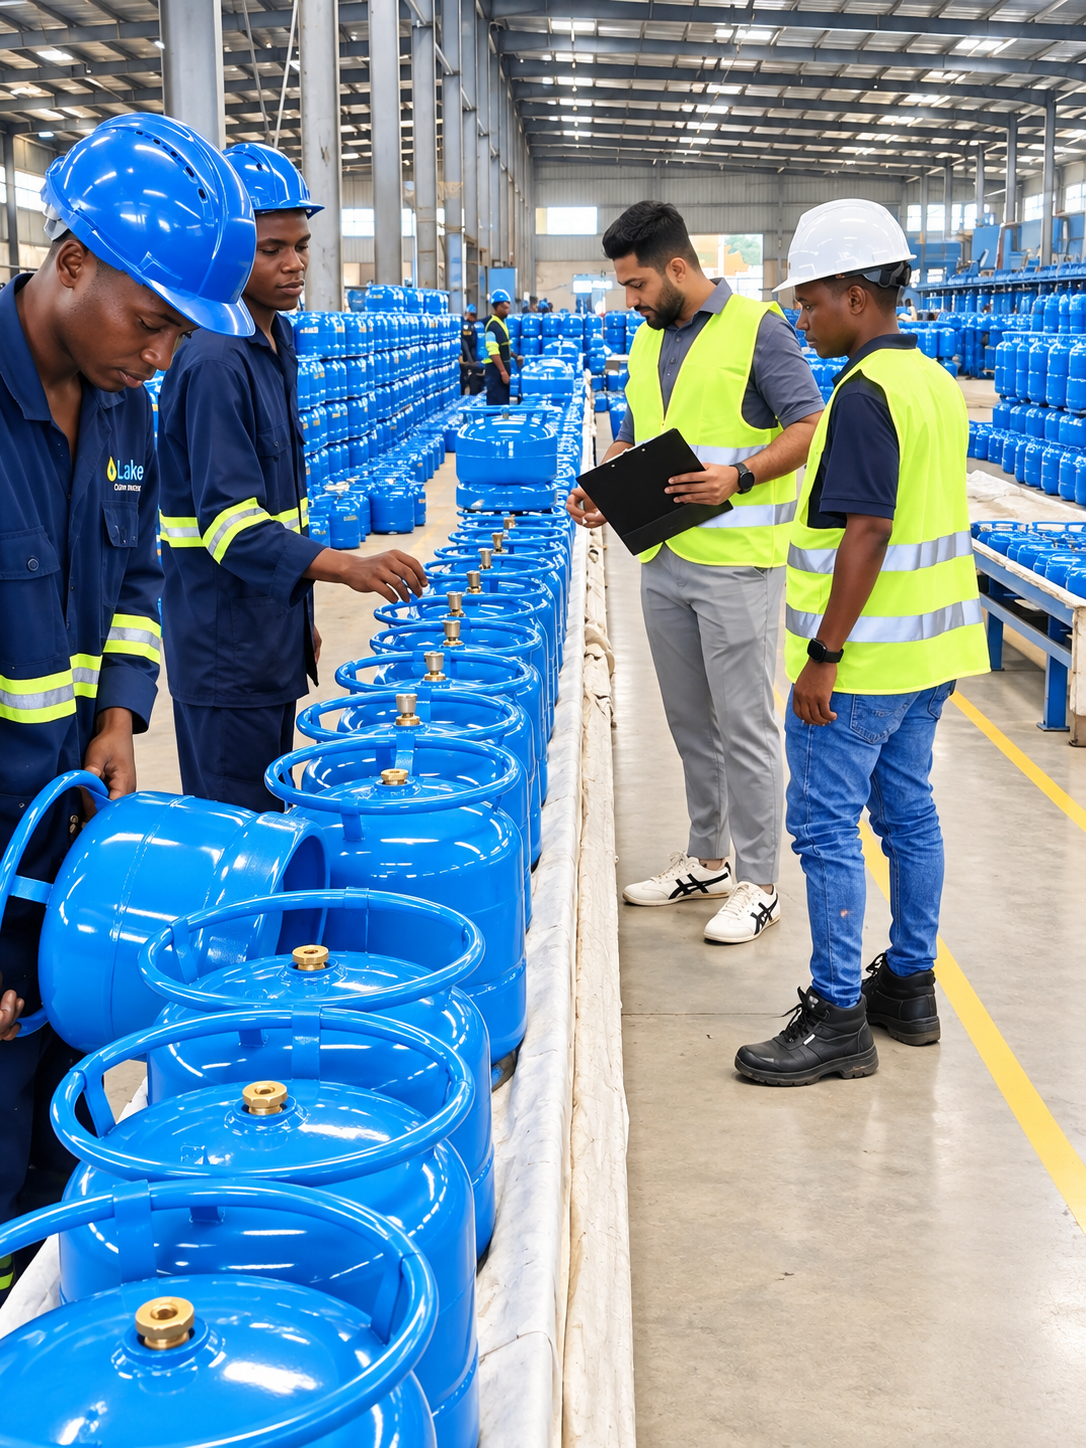
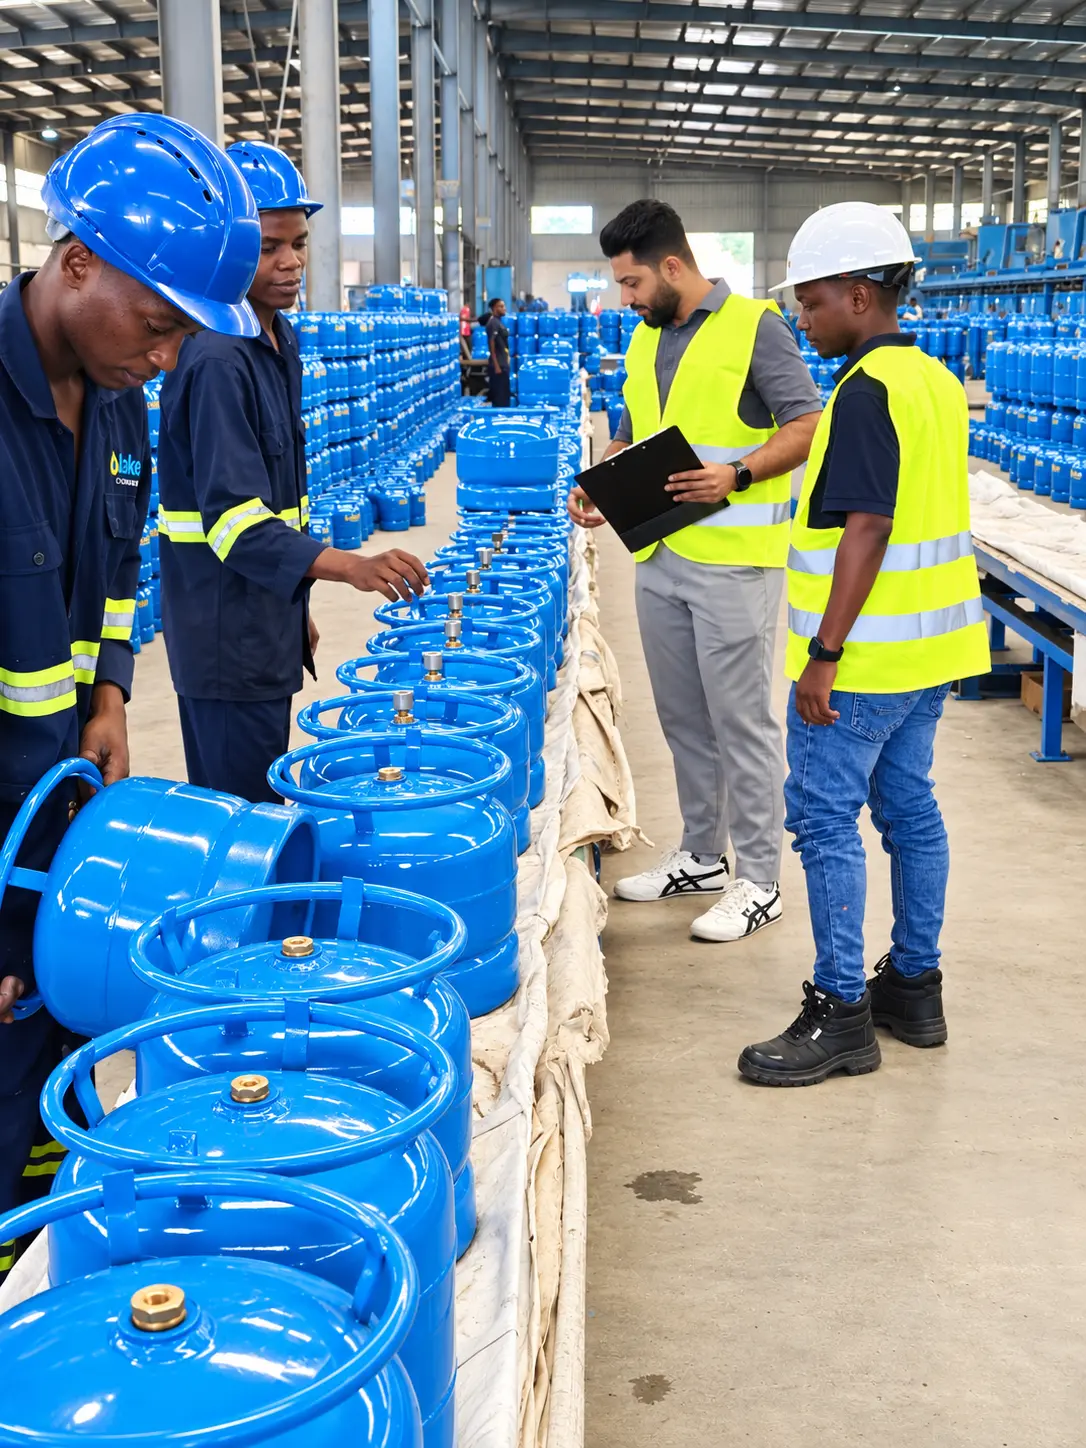
fix: update Lake Cylinders gallery images, fix action gallery tile, and improve dark section contrast
- Replace Lake Cylinders gallery images with new factory photos (team, quality inspection, conveyor line)
- Add new hero image for Lake Cylinders page
- Remove old tank photo tile from homepage action gallery
- Fix action gallery i18n translations for Lake Pipes tile
- Improve text visibility on dark (fs-on-dark) sections
- Remove Products section from Lake Cylinders page
- Increase gallery tile sizes for better face visibility
- Center bottom values tiles on Lake Cylinders page

Generated with Codebuff 🤖

diff --git a/index.html b/index.html
@@ -2898,29 +2898,28 @@
       /* High-quality operations gallery — one tile per company */
       var ITEMS = [
         /* ---- Energies ---- */
-        { src: "assets/images/delivery/lakeoil/current/lake-energies-station-approved.webp", cat: "oil", tKey: "index.action.i01.t", sKey: "index.action.i01.s", title: "Lake Oil", sub: "Petroleum terminal & retail" },
-        { src: "assets/images/delivery/lake-aviation/ops/lake-aviation-hero-apron.webp", cat: "oil", tKey: "index.action.i02.t", sKey: "index.action.i02.s", title: "Lake Aviation", sub: "Aviation fuel supply" },
-        { src: "assets/images/delivery/lakegas/ops/filling-plant.webp", cat: "gas", tKey: "index.action.i03.t", sKey: "index.action.i03.s", title: "Lake Gas", sub: "LPG filling & cylinders" },
-        { src: "assets/images/delivery/lakelubes/ops/plant.webp", cat: "industry", tKey: "index.action.i04.t", sKey: "index.action.i04.s", title: "Lake Lubes", sub: "Lubricant blending plant" },
+        { src: "assets/images/delivery/lakeoil/current/storage-facilities-terminal.webp", cat: "oil", tKey: "index.action.i01.t", sKey: "index.action.i01.s", title: "Lake Oil", sub: "Petroleum terminal & retail" },
+        { src: "assets/images/delivery/lakegas/ops/filling-plant-opt.webp", cat: "gas", tKey: "index.action.i02.t", sKey: "index.action.i02.s", title: "Lake Gas", sub: "LPG filling & cylinders" },
+        { src: "assets/images/delivery/lake-aviation/ops/lake-aviation-hero-apron.webp", cat: "oil", tKey: "index.action.i02b.t", sKey: "index.action.i02b.s", title: "Lake Aviation", sub: "Aviation fuel supply" },
+        { src: "assets/images/delivery/lakelubes/ops/plant-opt.webp", cat: "industry", tKey: "index.action.i04.t", sKey: "index.action.i04.s", title: "Lake Lubes", sub: "Lubricant blending plant" },
         /* ---- Manufacturing ---- */
-        { src: "assets/images/lakebuilding/hero/building-factory-hero.webp", cat: "industry", tKey: "index.action.i05.t", sKey: "index.action.i05.s", title: "Lake Buildings", sub: "Industrial tanks & steelworks" },
-        { src: "assets/images/delivery/lake-pipes/ops/blue-pipes.webp", cat: "industry", tKey: "index.action.i06.t", sKey: "index.action.i06.s", title: "Lake Pipes", sub: "Pipe manufacturing" },
-        { src: "assets/images/delivery/lakesteel/ops/hot-rolling.webp", cat: "industry", tKey: "index.action.i07.t", sKey: "index.action.i07.s", title: "Lake Steel", sub: "HS-CR rebar mill" },
-        { src: "assets/images/lake-cylinders/gallery/team-photo.webp", cat: "industry", tKey: "index.action.i08.t", sKey: "index.action.i08.s", title: "Lake Cylinders", sub: "LPG cylinder manufacturing" },
-        { src: "assets/images/gccp/lake-premix-batching-plant.webp", cat: "industry", tKey: "index.action.i09.t", sKey: "index.action.i09.s", title: "Lake Premix", sub: "Ready-mix concrete" },
-        { src: "assets/images/gulf-aggregates/services/quarry-aerial.webp", cat: "industry", tKey: "index.action.i10.t", sKey: "index.action.i10.s", title: "Gulf Aggregates", sub: "Quarry & aggregates" },
+        { src: "assets/images/lake-pipes/new/tanks.webp", cat: "industry", tKey: "index.action.i06.t", sKey: "index.action.i06.s", title: "Lake Pipes", sub: "Tank manufacturing" },
+        { src: "assets/images/delivery/lakesteel/ops/hot-rolling-opt.webp", cat: "industry", tKey: "index.action.i03.t", sKey: "index.action.i03.s", title: "Lake Steel", sub: "HS-CR rebar mill" },
+        { src: "assets/images/lake-cylinders/gallery/team-photo.webp", cat: "industry", tKey: "index.action.i03b.t", sKey: "index.action.i03b.s", title: "Lake Cylinders", sub: "LPG cylinder manufacturing" },
+        { src: "assets/images/gccp/lake-premix-batching-plant.webp", cat: "industry", tKey: "index.action.i05b.t", sKey: "index.action.i05b.s", title: "Lake Premix", sub: "Ready-mix concrete" },
+        { src: "assets/images/gulf-aggregates/services/quarry-aerial.webp", cat: "industry", tKey: "index.action.i05c.t", sKey: "index.action.i05c.s", title: "Gulf Aggregates", sub: "Quarry & aggregates" },
         /* ---- Logistics ---- */
-        { src: "assets/images/delivery/laketrans/ops/fleet-inspection.webp", cat: "logistics", tKey: "index.action.i11.t", sKey: "index.action.i11.s", title: "Lake Trans", sub: "Bulk liquid haulage" },
-        { src: "assets/images/delivery/aficd/operations/aficd-container-handling.webp", cat: "logistics", tKey: "index.action.i12.t", sKey: "index.action.i12.s", title: "AFICD", sub: "Inland container depot" },
-        { src: "assets/images/aill/aill-hero.webp", cat: "logistics", tKey: "index.action.i13.t", sKey: "index.action.i13.s", title: "AILL", sub: "Inland logistics" },
+        { src: "assets/images/laketrans/hero/lake-trans-fleet-hero.webp", cat: "logistics", tKey: "index.action.i08.t", sKey: "index.action.i08.s", title: "Lake Trans", sub: "Bulk liquid haulage" },
+        { src: "assets/images/delivery/home/verticals/logistics-960.webp", cat: "logistics", tKey: "index.action.i09.t", sKey: "index.action.i09.s", title: "AFICD", sub: "Inland container depot" },
+        { src: "assets/images/aill/aill-hero.webp", cat: "logistics", tKey: "index.action.i09b.t", sKey: "index.action.i09b.s", title: "AILL", sub: "Inland logistics" },
         /* ---- Real Estate ---- */
-        { src: "assets/images/cross-country/cross-country-hero.webp", cat: "industry", tKey: "index.action.i14.t", sKey: "index.action.i14.s", title: "Cross Country", sub: "Real estate development" },
+        { src: "assets/images/cross-country/cross-country-hero.webp", cat: "industry", tKey: "index.action.i06b.t", sKey: "index.action.i06b.s", title: "Cross Country", sub: "Real estate development" },
         /* ---- Agro ---- */
-        { src: "assets/images/delivery/lake-agro/la-tanzania-factory.webp", cat: "industry", tKey: "index.action.i15.t", sKey: "index.action.i15.s", title: "Lake Agro", sub: "Agro processing" },
+        { src: "assets/images/delivery/lake-agro/la-tanzania-factory.webp", cat: "industry", tKey: "index.action.i07.t", sKey: "index.action.i07.s", title: "Lake Agro", sub: "Agro processing" },
         /* ---- Automotive ---- */
-        { src: "assets/images/agrinova/combine.webp", cat: "industry", tKey: "index.action.i16.t", sKey: "index.action.i16.s", title: "Agrinova Tech", sub: "Agricultural machinery" },
-        { src: "assets/images/atl/content/atl-flatbed-red.webp", cat: "industry", tKey: "index.action.i17.t", sKey: "index.action.i17.s", title: "ATL", sub: "Trailer manufacturing" },
-        { src: "assets/images/nexdrive/products/sany-heavy-commercial-truck.webp", cat: "industry", tKey: "index.action.i18.t", sKey: "index.action.i18.s", title: "NexDrive Motors", sub: "Commercial vehicles" },
+        { src: "assets/images/agrinova/combine.webp", cat: "industry", tKey: "index.action.i07b.t", sKey: "index.action.i07b.s", title: "Agrinova Tech", sub: "Agricultural machinery" },
+        { src: "assets/images/atl/content/atl-flatbed-red.webp", cat: "industry", tKey: "index.action.i07c.t", sKey: "index.action.i07c.s", title: "ATL", sub: "Trailer manufacturing" },
+        { src: "assets/images/nexdrive/products/sany-heavy-commercial-truck.webp", cat: "industry", tKey: "index.action.i07d.t", sKey: "index.action.i07d.s", title: "NexDrive Motors", sub: "Commercial vehicles" },
       ];
 
       var stage = root.querySelector(".action-stage");

diff --git a/lake-cylinders.html b/lake-cylinders.html
@@ -74,29 +74,55 @@ body[data-company-logo*="lake-cylinders"] .page-hero .hero-media{
   background-position:center 35%
 }
 
-/* Dark-section contrast fixes */
-.fs-on-dark .fs-check li{color:rgba(233,237,248,0.92)!important;border-bottom-color:rgba(233,237,248,0.12)!important}
-.fs-on-dark .fs-check li:first-child{border-top-color:rgba(233,237,248,0.12)!important}
-.fs-on-dark p{color:rgba(233,237,248,0.9)!important}
-.fs-on-dark .val-mini-tile p{color:var(--ink-mute)!important}
+/* Dark-section contrast fixes — all text forced white for readability */
+.fs-on-dark,
+.fs-on-dark h2,
+.fs-on-dark h3,
+.fs-on-dark h4,
+.fs-on-dark p,
+.fs-on-dark li,
+.fs-on-dark span,
+.fs-on-dark strong,
+.fs-on-dark .fs-check li,
+.fs-on-dark .val-mini-tile h4,
+.fs-on-dark .val-mini-tile p,
+.fs-on-dark .fs-eyebrow {
+  color: #fff !important;
+}
+.fs-on-dark p {
+  color: rgba(255,255,255,0.88) !important;
+}
+.fs-on-dark .val-mini-tile p {
+  color: rgba(255,255,255,0.7) !important;
+}
+.fs-on-dark .fs-check li {
+  border-bottom-color: rgba(255,255,255,0.15) !important;
+}
+.fs-on-dark .fs-check li:first-child {
+  border-top-color: rgba(255,255,255,0.15) !important;
+}
+.fs-on-dark .val-mini-tile {
+  border-color: rgba(255,255,255,0.15) !important;
+  background: rgba(255,255,255,0.04) !important;
+}
+.fs-on-dark .badge {
+  color: #fff !important;
+  border-color: rgba(255,242,0,0.6) !important;
+  background: rgba(255,242,0,0.15) !important;
+}
 
-/* Gallery . Lake Oil pattern, compact photo size */
-.co-gal{display:grid;grid-template-columns:repeat(2,minmax(0,1fr));gap:10px;width:100%;max-width:820px;margin:0 auto}
-.co-gal__item{position:relative;overflow:hidden;margin:0;background:var(--ink-3);aspect-ratio:3/2;border-radius:2px}
-.co-gal__item--feat{grid-column:1 / -1;aspect-ratio:2/1}
-.co-gal__item img{width:100%;height:100%;object-fit:cover;object-position:center;display:block;transition:transform .45s ease}
+/* Gallery — aviation-style mosaic grid */
+.co-gal{max-width:1120px;display:grid;grid-template-columns:repeat(4,minmax(0,1fr));grid-template-rows:repeat(3,clamp(200px,18vw,300px));gap:16px;margin:0 auto}
+.co-gal__item{position:relative;overflow:hidden;margin:0;min-width:0;aspect-ratio:auto;border-radius:6px;background:var(--ink-3)}
+.co-gal__item img{width:100%;height:100%;object-fit:cover;display:block;transition:transform .45s ease}
 .co-gal__item:hover img{transform:scale(1.03)}
 .co-gal__cap{position:absolute;left:0;right:0;bottom:0;padding:12px 14px 10px;background:linear-gradient(transparent,rgba(8,16,28,.75));color:#fff;font-size:.68rem;font-weight:600;letter-spacing:.14em;text-transform:uppercase;pointer-events:none}
-.co-gal-label{margin:var(--sp-6) 0 var(--sp-3);font-size:.72rem;font-weight:700;letter-spacing:.2em;text-transform:uppercase;color:var(--mute)}
-.co-gal-products{display:grid;grid-template-columns:repeat(5,minmax(0,1fr));gap:8px;max-width:820px}
-.co-gal-products .co-gal__item{aspect-ratio:1;background:#fff}
-.co-gal-products .co-gal__item img{object-fit:contain;padding:12px;background:#fff}
-@media(max-width:860px){.co-gal-products{grid-template-columns:repeat(3,minmax(0,1fr))}}
-@media(max-width:720px){
-  .co-gal{gap:8px;max-width:100%}
-  .co-gal__item--feat{aspect-ratio:16/10}
-  .co-gal-products{grid-template-columns:repeat(2,minmax(0,1fr))}
-}
+/* 3-tile mosaic: team spans 2x2, other two fill right column */
+.co-gal__item:nth-child(1){grid-column:1 / span 2;grid-row:1 / span 2}
+.co-gal__item:nth-child(2){grid-column:3 / span 2;grid-row:1}
+.co-gal__item:nth-child(3){grid-column:3 / span 2;grid-row:2}
+@media(max-width:900px){.co-gal{grid-template-columns:repeat(2,minmax(0,1fr));grid-template-rows:none;grid-auto-rows:clamp(220px,30vw,320px);gap:14px}.co-gal__item{grid-column:auto!important;grid-row:auto!important}.co-gal__item:nth-child(1){grid-column:span 2!important;grid-row:span 2!important}}
+@media(max-width:720px){.co-gal{grid-template-columns:1fr;grid-auto-rows:auto;gap:12px}.co-gal__item,.co-gal__item:nth-child(n){grid-column:auto!important;grid-row:auto!important;aspect-ratio:16/10;min-height:220px}.co-gal__item img{object-position:center}}
 
 .img-mosaic{display:grid;grid-template-columns:repeat(2,minmax(0,1fr));gap:10px;max-width:820px}
 @media(max-width:720px){.img-mosaic{grid-template-columns:1fr 1fr;gap:8px;max-width:100%}}
@@ -303,6 +329,8 @@ body[data-company-logo*="lake-cylinders"] .page-hero .hero-media{
       <div class="val-mini-tile"><h4>Innovation</h4><p>Continuous improvement of technology and processes</p></div>
       <div class="val-mini-tile"><h4>Operational Excellence</h4><p>Efficiency, productivity, waste reduction and continuous improvement</p></div>
       <div class="val-mini-tile"><h4>Sustainability</h4><p>Cleaner energy adoption and responsible manufacturing</p></div>
+    </div>
+    <div class="val-mini-grid" style="grid-template-columns:repeat(2,1fr);max-width:560px;margin:var(--sp-4) auto 0" aria-label="Additional values">
       <div class="val-mini-tile"><h4>People &amp; Teamwork</h4><p>Developing our people and working together</p></div>
       <div class="val-mini-tile"><h4>National Development</h4><p>Supporting Tanzania's industrial and economic growth through local manufacturing, employment and energy development</p></div>
     </div>
@@ -327,30 +355,6 @@ body[data-company-logo*="lake-cylinders"] .page-hero .hero-media{
     </div>
   </div>
 </section>
-
-<section class="fs-section">
-  <div class="container">
-<h2 class="fs-display" style="margin-bottom:var(--sp-6)">Our Products</h2>
-    <div class="prod-compact">
-      <div class="prod-compact-card">
-        <div class="prod-glyph" aria-hidden="true"><iconify-icon icon="mdi:gas-cylinder" width="28" height="28"></iconify-icon></div>
-        <h4>6 kg LPG Cylinders</h4>
-        <p>Household-sized cylinders for everyday cooking, with capacity to produce up to 40,000 units per month.</p>
-      </div>
-      <div class="prod-compact-card">
-        <div class="prod-glyph" aria-hidden="true"><iconify-icon icon="mdi:gas-cylinder" width="28" height="28"></iconify-icon></div>
-        <h4>15 kg LPG Cylinders</h4>
-        <p>Mid-capacity cylinders serving both household and commercial LPG markets across the region.</p>
-      </div>
-      <div class="prod-compact-card">
-        <div class="prod-glyph" aria-hidden="true"><iconify-icon icon="mdi:gas-cylinder" width="28" height="28"></iconify-icon></div>
-        <h4>38 kg LPG Cylinders</h4>
-        <p>Expansion into 38 kg LPG cylinder manufacturing following acquisition of dedicated manufacturing equipment.</p>
-      </div>
-    </div>
-  </div>
-</section>
-
 
 
 <section class="fs-section fs-on-dark">
@@ -388,7 +392,7 @@ body[data-company-logo*="lake-cylinders"] .page-hero .hero-media{
 <style>[data-gallery-section] .fs-eyebrow::before{box-shadow:none!important}</style>
     <h2 class="fs-display" style="margin-bottom:var(--sp-6)">Gallery</h2>
     <div class="co-gal" aria-label="Lake Cylinders gallery">
-      <figure class="co-gal__item co-gal__item--feat">
+      <figure class="co-gal__item">
         <img src="assets/images/lake-cylinders/gallery/team-photo.webp" alt="Lake Cylinders team at the manufacturing facility" loading="lazy" decoding="async">
         <figcaption class="co-gal__cap">Team</figcaption>
       </figure>

diff --git a/assets/i18n-content.js b/assets/i18n-content.js
@@ -1752,9 +1752,9 @@ window.__LAKE_I18N_CONTENT__ = {
     "index.action.i04.t": "Lake Lubes",
     "index.action.i04.s": "Lubricant blending plant",
     "index.action.i05.t": "Lake Pipes",
-    "index.action.i05.s": "Pipe manufacturing",
-    "index.action.i06.t": "Lake Building Solution",
-    "index.action.i06.s": "Industrial tanks & steelworks",
+    "index.action.i05.s": "Pipes, water tanks & fittings",
+    "index.action.i06.t": "Lake Pipes",
+    "index.action.i06.s": "Pipes, water tanks & fittings",
     "index.action.i07.t": "Lake Agro",
     "index.action.i07.s": "Agro processing",
     "index.action.i08.t": "Lake Trans",
@@ -3541,9 +3541,9 @@ window.__LAKE_I18N_CONTENT__ = {
     "index.action.i04.t": "Lake Lubes",
     "index.action.i04.s": "Lubricant blending plant",
     "index.action.i05.t": "Lake Pipes",
-    "index.action.i05.s": "Pipe manufacturing",
-    "index.action.i06.t": "Lake Building Solution",
-    "index.action.i06.s": "Industrial tanks & steelworks",
+    "index.action.i05.s": "Pipes, water tanks & fittings",
+    "index.action.i06.t": "Lake Pipes",
+    "index.action.i06.s": "Pipes, water tanks & fittings",
     "index.action.i07.t": "Lake Agro",
     "index.action.i07.s": "Agro processing",
     "index.action.i08.t": "Lake Trans",
@@ -5327,9 +5327,9 @@ window.__LAKE_I18N_CONTENT__ = {
     "index.action.i04.t": "Lake Lubes",
     "index.action.i04.s": "Lubricant blending plant",
     "index.action.i05.t": "Lake Pipes",
-    "index.action.i05.s": "Pipe manufacturing",
-    "index.action.i06.t": "Lake Building Solution",
-    "index.action.i06.s": "Industrial tanks & steelworks",
+    "index.action.i05.s": "Pipes, water tanks & fittings",
+    "index.action.i06.t": "Lake Pipes",
+    "index.action.i06.s": "Pipes, water tanks & fittings",
     "index.action.i07.t": "Lake Agro",
     "index.action.i07.s": "Agro processing",
     "index.action.i08.t": "Lake Trans",
@@ -7113,9 +7113,9 @@ window.__LAKE_I18N_CONTENT__ = {
     "index.action.i04.t": "Lake Lubes",
     "index.action.i04.s": "Lubricant blending plant",
     "index.action.i05.t": "Lake Pipes",
-    "index.action.i05.s": "Pipe manufacturing",
-    "index.action.i06.t": "Lake Building Solution",
-    "index.action.i06.s": "Industrial tanks & steelworks",
+    "index.action.i05.s": "Pipes, water tanks & fittings",
+    "index.action.i06.t": "Lake Pipes",
+    "index.action.i06.s": "Pipes, water tanks & fittings",
     "index.action.i07.t": "Lake Agro",
     "index.action.i07.s": "Agro processing",
     "index.action.i08.t": "Lake Trans",
@@ -8899,9 +8899,9 @@ window.__LAKE_I18N_CONTENT__ = {
     "index.action.i04.t": "Lake Lubes",
     "index.action.i04.s": "Lubricant blending plant",
     "index.action.i05.t": "Lake Pipes",
-    "index.action.i05.s": "Pipe manufacturing",
-    "index.action.i06.t": "Lake Building Solution",
-    "index.action.i06.s": "Industrial tanks & steelworks",
+    "index.action.i05.s": "Pipes, water tanks & fittings",
+    "index.action.i06.t": "Lake Pipes",
+    "index.action.i06.s": "Pipes, water tanks & fittings",
     "index.action.i07.t": "Lake Agro",
     "index.action.i07.s": "Agro processing",
     "index.action.i08.t": "Lake Trans",
@@ -10685,9 +10685,9 @@ window.__LAKE_I18N_CONTENT__ = {
     "index.action.i04.t": "Lake Lubes",
     "index.action.i04.s": "Lubricant blending plant",
     "index.action.i05.t": "Lake Pipes",
-    "index.action.i05.s": "Pipe manufacturing",
-    "index.action.i06.t": "Lake Building Solution",
-    "index.action.i06.s": "Industrial tanks & steelworks",
+    "index.action.i05.s": "Pipes, water tanks & fittings",
+    "index.action.i06.t": "Lake Pipes",
+    "index.action.i06.s": "Pipes, water tanks & fittings",
     "index.action.i07.t": "Lake Agro",
     "index.action.i07.s": "Agro processing",
     "index.action.i08.t": "Lake Trans",

diff --git a/sw.js b/sw.js
@@ -28,7 +28,7 @@
 
 'use strict';
 
-const VERSION = 'v81-20260828-01';
+const VERSION = 'v83-20260909-01';
 
 const PRECACHE = `lake-precache-${VERSION}`;
 const PAGES_CACHE = `lake-pages-${VERSION}`;
